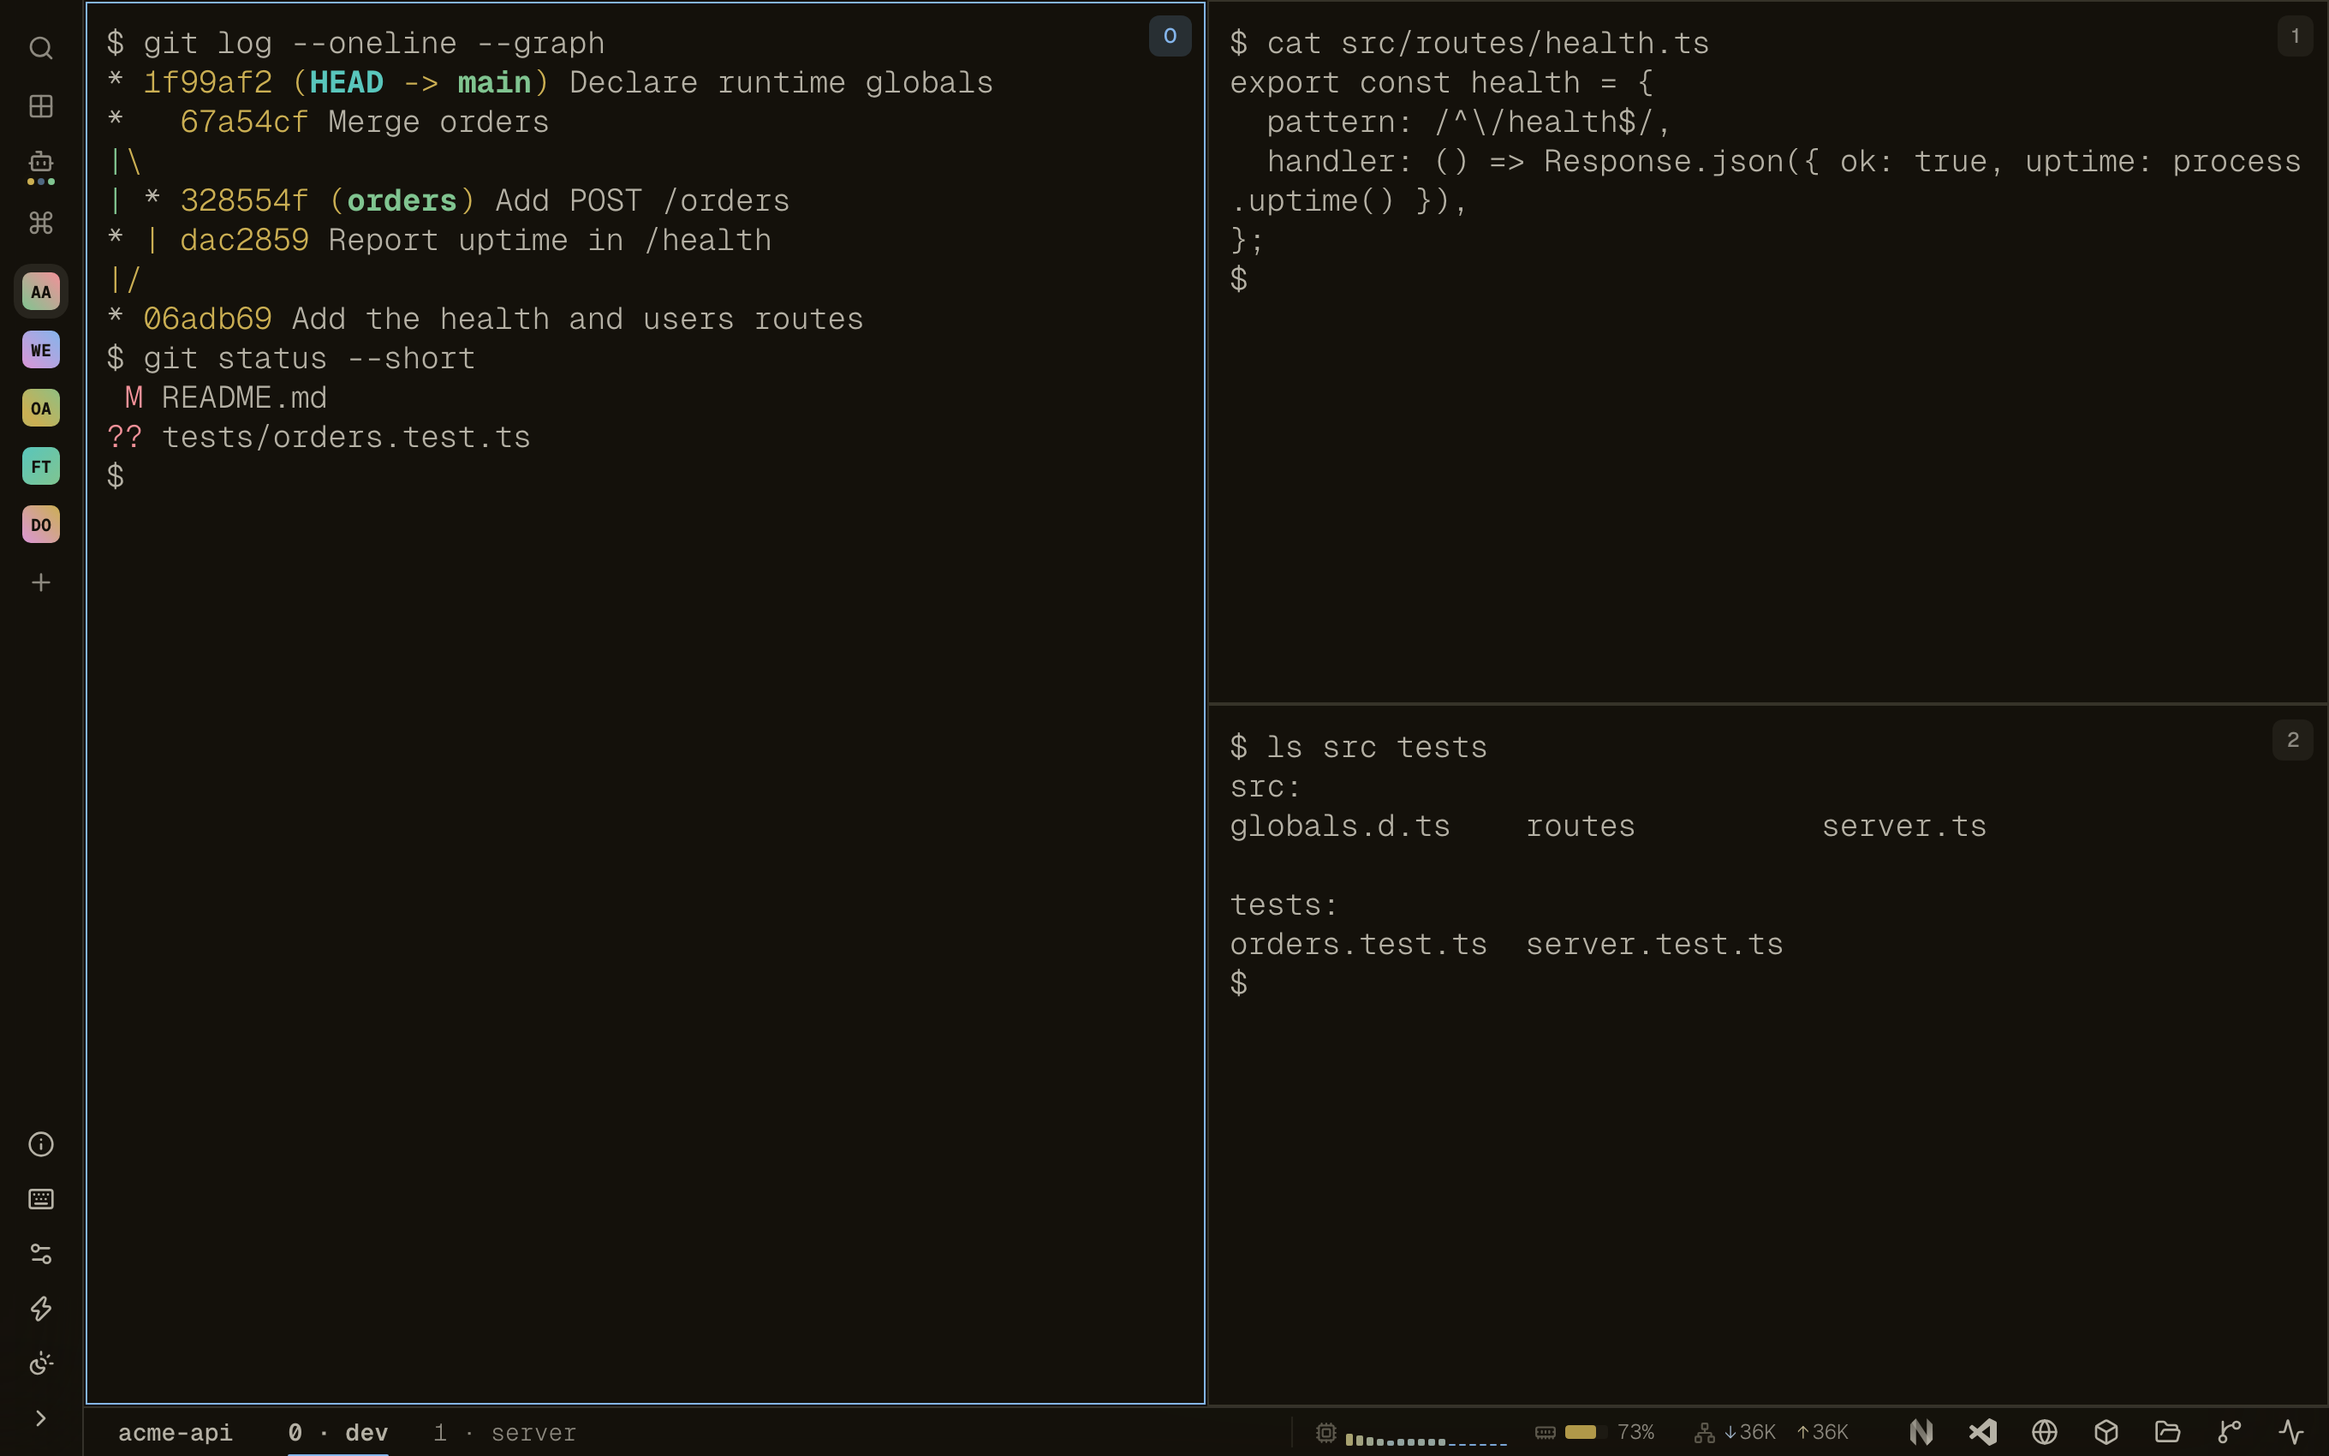
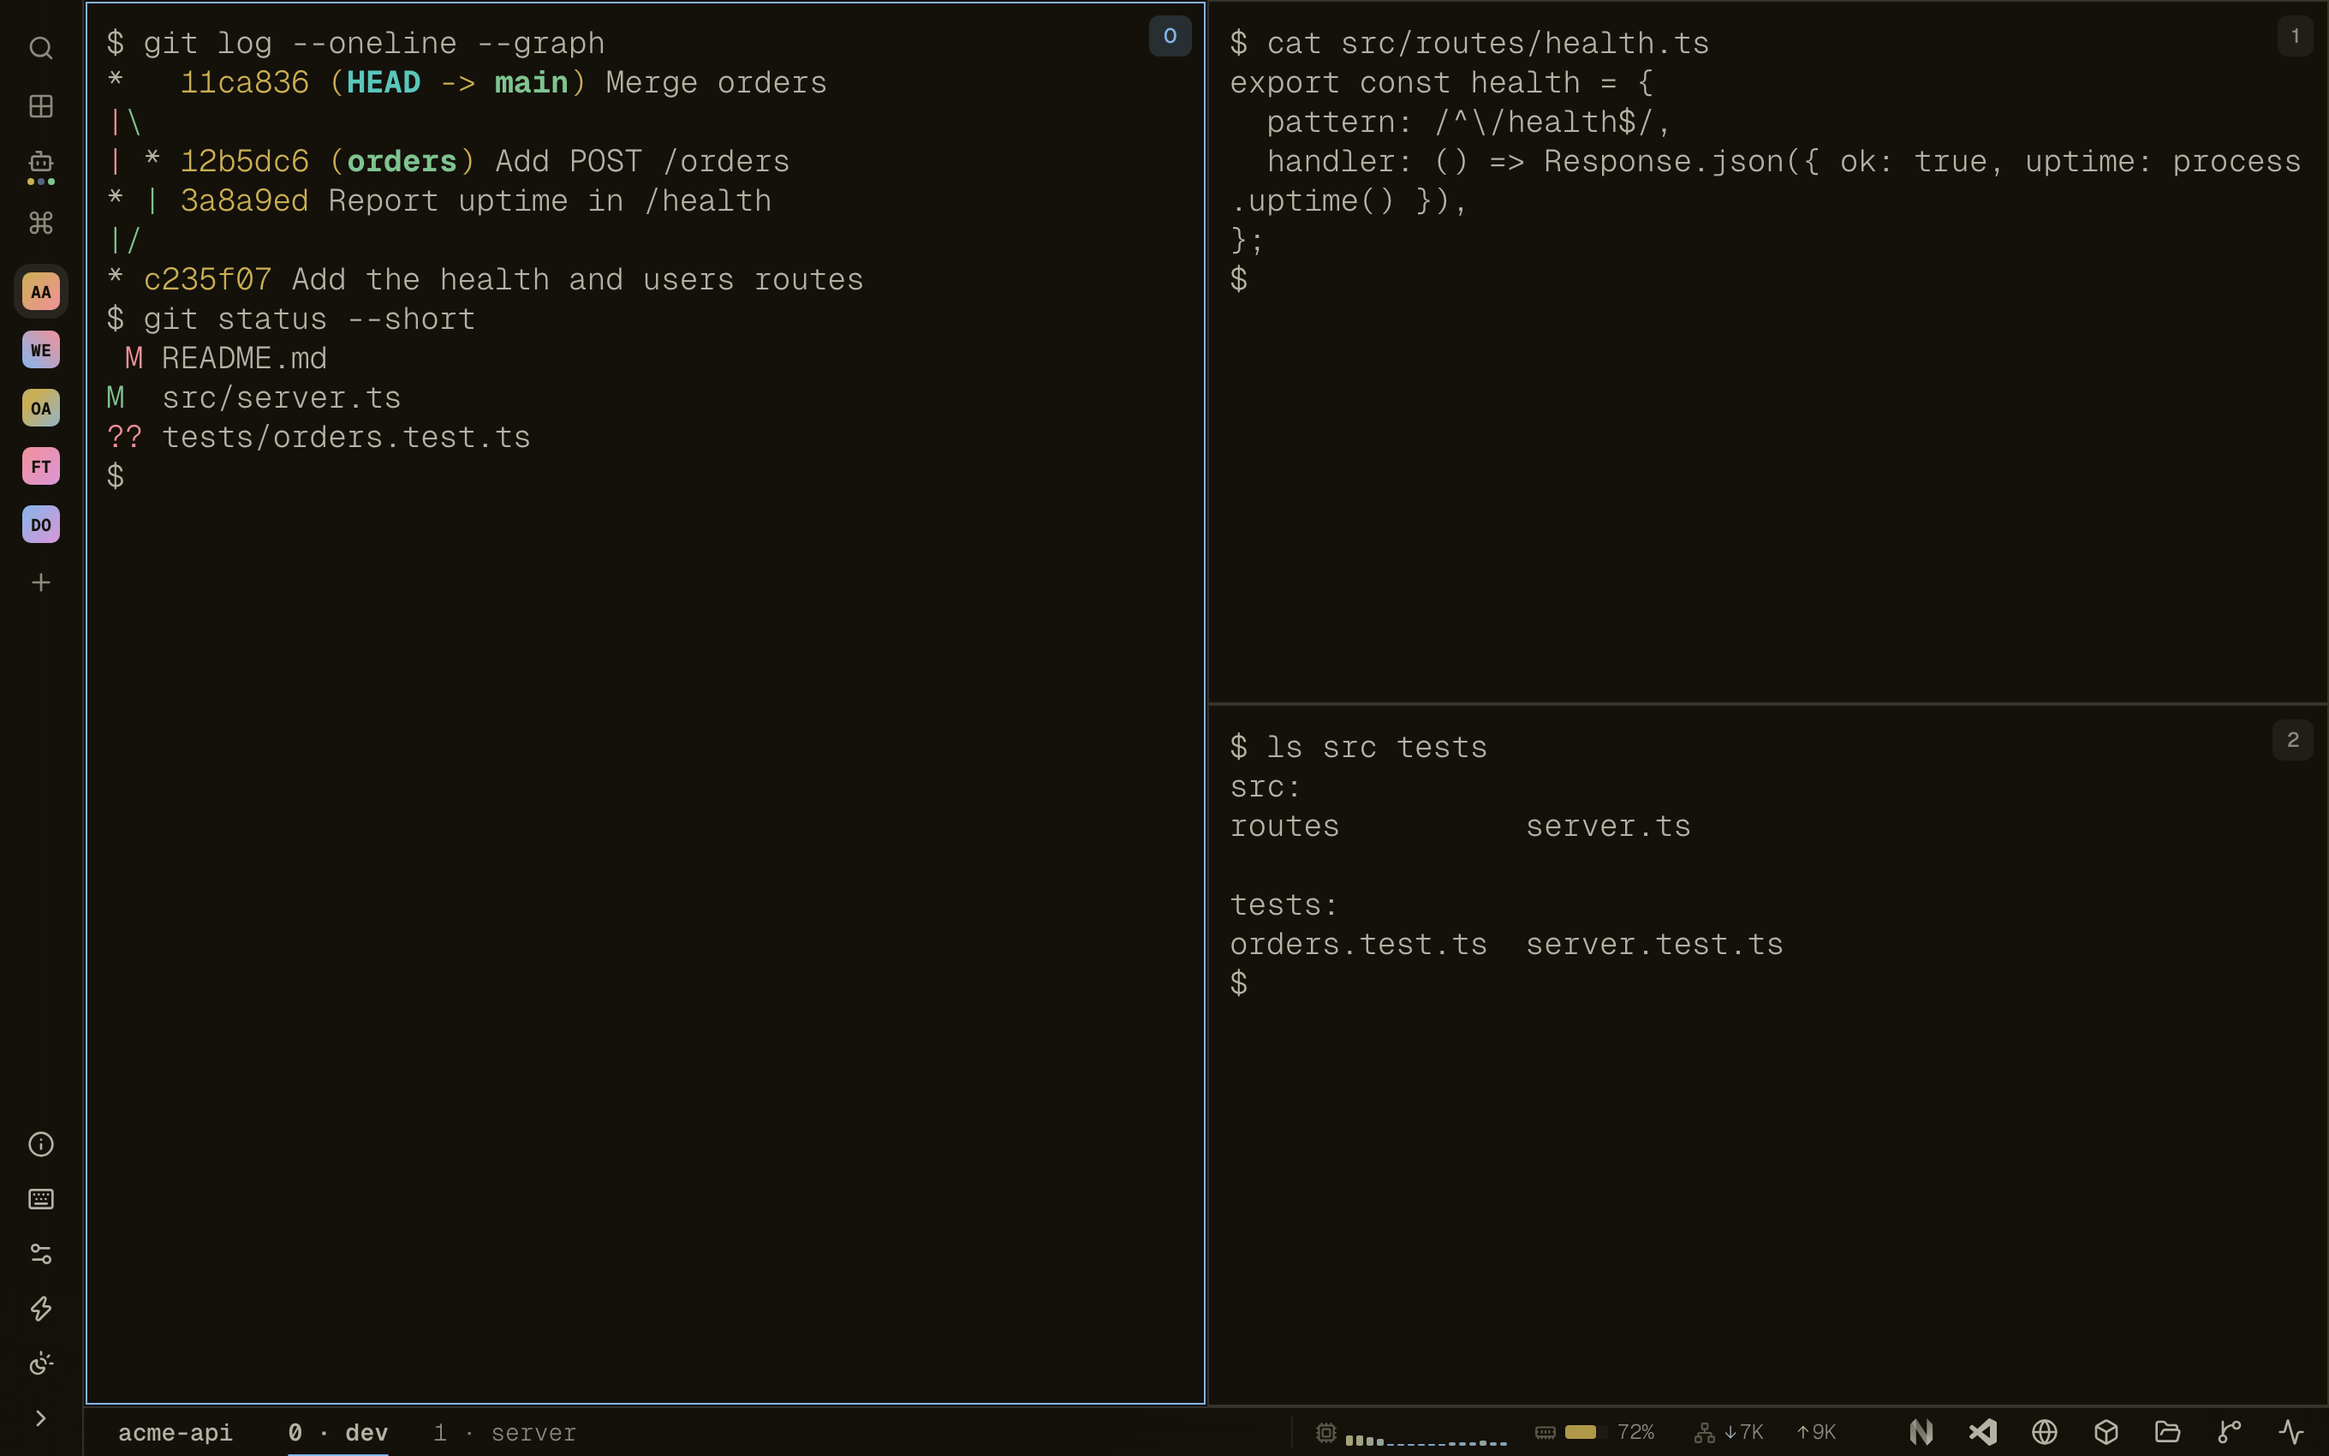
Docs: process viewer screenshot, Rust LSP in the Neovim screenshots

diff --git a/frontend/docs-screenshots.ts b/frontend/docs-screenshots.ts
@@ -8,7 +8,7 @@ import assert from 'node:assert/strict';
 import { chromium, type Page } from 'playwright';
 import { execFileSync } from 'node:child_process';
 import { mkdirSync, rmSync, writeFileSync } from 'node:fs';
-import { tmpdir } from 'node:os';
+import { homedir, tmpdir, userInfo } from 'node:os';
 import path from 'node:path';
 import { waitForAsync } from './browser-test-utils';
 
@@ -47,7 +47,7 @@ write(
 write('.gitignore', 'node_modules\n.env\n');
 write(
   'src/server.ts',
-  `import { health } from './routes/health';\nimport { users } from './routes/users';\n\nconst routes = [health, users];\n\nexport function handle(request: Request): Response | Promise<Response> {\n  const { pathname } = new URL(request.url);\n  for (const route of routes) {\n    const match = route.pattern.exec(pathname);\n    if (match) return route.handler(request, match);\n  }\n  return new Response('Not found', { status: 404 });\n}\n\nBun.serve({ port: 3000, fetch: handle });\n`,
+  `import { health } from './routes/health';\nimport { users } from './routes/users';\n\nconst routes = [health, users];\n\nexport function handle(request: Request): Response {\n  const { pathname } = new URL(request.url);\n  for (const route of routes) {\n    const match = route.pattern.exec(pathname);\n    if (match) return route.handler(request, match);\n  }\n  return new Response('Not found', { status: 404 });\n}\n\nBun.serve({ port: 3000, fetch: handle });\n`,
 );
 write(
   'src/routes/health.ts',
@@ -80,7 +80,7 @@ git('merge', '--no-ff', '-m', 'Merge orders', 'orders');
 // Work in progress: one staged, one unstaged, one untracked.
 write(
   'src/server.ts',
-  `import { health } from './routes/health';\nimport { orders } from './routes/orders';\nimport { users } from './routes/users';\n\nconst routes = [health, users, orders];\n\nexport function handle(request: Request): Response | Promise<Response> {\n  const { pathname } = new URL(request.url);\n  for (const route of routes) {\n    const match = route.pattern.exec(pathname);\n    if (match) return route.handler(request, match);\n  }\n  return Response.json({ error: 'not found' }, { status: 404 });\n}\n\nBun.serve({ port: Number(process.env.PORT ?? 3000), fetch: handle });\n`,
+  `import { health } from './routes/health';\nimport { orders } from './routes/orders';\nimport { users } from './routes/users';\n\nconst routes = [health, users, orders];\n\nexport function handle(request: Request): Response {\n  const { pathname } = new URL(request.url);\n  for (const route of routes) {\n    const match = route.pattern.exec(pathname);\n    if (match) return route.handler(request, match);\n  }\n  return Response.json({ error: 'not found' }, { status: 404 });\n}\n\nBun.serve({ port: Number(process.env.PORT ?? 3000), fetch: handle });\n`,
 );
 git('add', 'src/server.ts');
 write(
@@ -88,37 +88,98 @@ write(
   '# acme-api\n\nThe Acme HTTP API.\n\n## Develop\n\n```sh\nbun install\nbun dev\n```\n\nSet `PORT` to listen elsewhere.\n\n## Routes\n\n- `GET /health`\n- `GET /users/:id`\n- `POST /orders`\n',
 );
 write('tests/orders.test.ts', `import { expect, test } from 'bun:test';\n\ntest.todo('creates an order');\n`);
-// Types for the runtime globals, so the language server reports no errors.
-write(
-  'src/globals.d.ts',
-  'declare const Bun: { serve(options: { port: number; fetch: (request: Request) => Response | Promise<Response> }): void };\ndeclare const process: { env: Record<string, string | undefined>; uptime(): number };\n',
-);
-write(
-  'tsconfig.json',
-  '{\n  "compilerOptions": { "target": "esnext", "module": "esnext", "moduleResolution": "bundler" },\n  "include": ["src"]\n}\n',
-);
-git('add', 'src/globals.d.ts', 'tsconfig.json');
-git('commit', '-m', 'Declare runtime globals');
+// A small Rust server: the program the server window runs (a listening port
+// for the process viewer) and the file the Neovim shots edit. rust-analyzer
+// needs the standard library's sources, which a toolchain without `rust-src`
+// lacks: point RUST_SRC_PATH at them.
+assert(process.env.RUST_SRC_PATH, 'RUST_SRC_PATH is required (the Rust standard library sources)');
+const router = path.join(home, 'router');
+mkdirSync(path.join(router, 'src'), { recursive: true });
+writeFileSync(path.join(router, 'Cargo.toml'), '[package]\nname = "router"\nversion = "0.1.0"\nedition = "2024"\n');
+writeFileSync(
+  path.join(router, 'src', 'main.rs'),
+  String.raw`use std::collections::HashMap;
+use std::io::{BufRead, BufReader, Write};
+use std::net::{TcpListener, TcpStream};
 
-// A language server for the Neovim shots, outside the demo repo, and a Neovim
-// config that uses it with native completion, as the Neovim page suggests.
-const tools = path.join(home, 'tools');
-mkdirSync(tools);
-writeFileSync(path.join(tools, 'package.json'), '{}\n');
-execFileSync('bun', ['add', 'typescript-language-server', 'typescript@5'], { cwd: tools, stdio: 'ignore' });
+/// A parsed HTTP request.
+struct Request {
+    method: String,
+    path: String,
+    headers: HashMap<String, String>,
+}
+
+impl Request {
+    /// Reads the request line and headers from a connection.
+    fn read(stream: &TcpStream) -> Option<Request> {
+        let mut lines = BufReader::new(stream).lines();
+        let first = lines.next()?.ok()?;
+        let mut parts = first.split_whitespace();
+        let method = parts.next()?.to_string();
+        let path = parts.next()?.to_string();
+        let mut headers = HashMap::new();
+        for line in lines {
+            let line = line.ok()?;
+            let Some((name, value)) = line.split_once(": ") else {
+                break;
+            };
+            headers.insert(name.to_lowercase(), value.to_string());
+        }
+        Some(Request { method, path, headers })
+    }
+
+    /// The value of a header, by lowercase name.
+    fn header(&self, name: &str) -> Option<&str> {
+        self.headers.get(name).map(String::as_str)
+    }
+}
+
+/// The status and body to answer a request with.
+fn respond(request: &Request) -> (u16, String) {
+    match (request.method.as_str(), request.path.as_str()) {
+        ("GET", "/health") => (200, "ok".to_string()),
+        ("GET", "/agent") => {
+            let agent = request.header("user-agent").unwrap_or("unknown");
+            (200, agent.to_string())
+        }
+        _ => (404, "not found".to_string()),
+    }
+}
+
+fn main() -> std::io::Result<()> {
+    let listener = TcpListener::bind("127.0.0.1:8089")?;
+    for stream in listener.incoming() {
+        let mut stream = stream?;
+        let Some(request) = Request::read(&stream) else {
+            continue;
+        };
+        let (status, body) = respond(&request);
+        write!(stream, "HTTP/1.1 {status} OK\r\ncontent-length: {}\r\n\r\n{body}", body.len())?;
+    }
+    Ok(())
+}
+`,
+);
+// Neovim config for the stack: rust-analyzer with native completion, as the
+// Neovim page suggests.
 mkdirSync(path.join(configHome, 'nvim'), { recursive: true });
 writeFileSync(
   path.join(configHome, 'nvim', 'init.lua'),
   `vim.o.number = true
+-- A half-typed line is an error; the shots are about completion.
+vim.diagnostic.enable(false)
+vim.o.statusline = '%<%f %h%w%m%r%=%-14.(%l,%c%V%) %P'
 vim.o.signcolumn = 'no'
 vim.o.autocomplete = true
 vim.o.completeopt = 'menuone,noselect,fuzzy,popup'
-vim.lsp.config('ts', {
-  cmd = { ${JSON.stringify(path.join(tools, 'node_modules', '.bin', 'typescript-language-server'))}, '--stdio' },
-  filetypes = { 'typescript' },
-  root_markers = { 'package.json' },
+vim.lsp.config('rust_analyzer', {
+  cmd = { 'rust-analyzer' },
+  cmd_env = { RUST_SRC_PATH = ${JSON.stringify(process.env.RUST_SRC_PATH)} },
+  filetypes = { 'rust' },
+  root_markers = { 'Cargo.toml' },
+  settings = { ['rust-analyzer'] = { checkOnSave = false } },
 })
-vim.lsp.enable('ts')
+vim.lsp.enable('rust_analyzer')
 vim.api.nvim_create_autocmd('LspAttach', {
   callback = function(ev)
     vim.lsp.completion.enable(true, ev.data.client_id, ev.buf, { autotrigger = true })
@@ -159,7 +220,7 @@ const prompt = (pane: string) => run(pane, "PS1='$ '; clear");
 const dev = btmux('new-session', '-s', 'acme-api', '-n', 'dev', '-c', repo);
 const side = btmux('split-window', '-t', dev, '-h', '-d', '-c', repo);
 const below = btmux('split-window', '-t', side, '-v', '-d', '-c', repo);
-const server = btmux('new-window', '-t', 'acme-api', '-n', 'server', '-d', '-c', repo);
+const server = btmux('new-window', '-t', 'acme-api', '-n', 'server', '-d', '-c', router);
 const web = btmux('new-session', '-s', 'website', '-n', 'site', '-c', site);
 const agents = [
   ['orders-api', 'claude', 'working', 'Add pagination to GET /orders'],
@@ -181,7 +242,7 @@ for (const [pane, command] of [
   [dev, 'git log --oneline --graph'],
   [side, 'cat src/routes/health.ts'],
   [below, 'ls src tests'],
-  [server, 'cat package.json'],
+  [server, 'cargo build -q && ./target/debug/router'],
   [web, 'cat notes.md'],
   [dev, 'git status --short'],
 ]) {
@@ -297,7 +358,32 @@ try {
       () => store('setFileBrowserOpen(false)'),
       1800,
     );
-    // No process viewer: it lists the host's own processes, users, and paths.
+    // The process viewer lists the host's processes, so the shot shows only
+    // the demo session's, with the user's name and home masked.
+    await shot(
+      'process-viewer',
+      async () => {
+        await overlay('process');
+        // Ports arrive with every third sample.
+        await page.waitForTimeout(4500);
+        await page.keyboard.press('Tab');
+        await page.waitForTimeout(600);
+        await page.keyboard.press('l');
+        await page.waitForTimeout(1500);
+        await page.evaluate(
+          ({ user, home }) => {
+            const walker = document.createTreeWalker(document.body, NodeFilter.SHOW_TEXT);
+            for (let node = walker.nextNode(); node; node = walker.nextNode())
+              if (node.nodeValue!.includes(user))
+                node.nodeValue = node.nodeValue!.replaceAll(home, '/home/ada').replaceAll(user, 'ada');
+            for (const element of document.querySelectorAll('[title]')) element.setAttribute('title', '');
+          },
+          { user: userInfo().username, home: homedir() },
+        );
+      },
+      escape,
+      300,
+    );
     await shot(
       'agent-view',
       () => store('setAgentGridOpen(true)'),
@@ -358,19 +444,35 @@ try {
         await page.keyboard.press('Escape');
         await page.waitForTimeout(600);
       };
-      await command('e! src/server.ts');
-      // The language server starts and loads the project.
-      await page.waitForTimeout(scheme === 'dark' ? 12_000 : 3000);
-      // LSP completion of a route's members, inside the loop of handle().
-      await page.keyboard.type('9Goroute.');
-      await page.waitForTimeout(2500);
-      await page.keyboard.press('Control+n');
+      await command(`cd ${router}`);
+      await command('e! src/main.rs');
+      // rust-analyzer loads the crate and the standard library.
+      if (scheme === 'dark') await page.waitForTimeout(20_000);
+      // LSP completion of the request's members in respond(), retried until
+      // the server answers.
+      let completed = false;
+      for (let attempt = 0; attempt < 12 && !completed; attempt++) {
+        await page.waitForTimeout(3000);
+        await command("call search('^fn respond')");
+        // At the top of the window, so the menu opens below the cursor.
+        await page.keyboard.type('ztorequest.');
+        await page.waitForTimeout(2500);
+        await page.keyboard.press('Control+n');
+        await page.waitForTimeout(500);
+        completed = (await page.locator('[aria-current="true"]').count()) > 0;
+        if (!completed) {
+          await escape();
+          await command('e!');
+        }
+      }
+      assert(completed, 'no completion menu from rust-analyzer');
       await save('neovim-completion');
       await escape();
       await command('e!');
-      // LSP hover on handle.
-      await page.keyboard.type('7G2wK');
-      await page.waitForTimeout(1500);
+      // LSP hover on Request::read.
+      await command("call search('read(&stream')");
+      await page.keyboard.type('zzK');
+      await page.waitForTimeout(2000);
       await save('neovim-hover');
       await page.keyboard.type('j');
       await page.waitForTimeout(400);

diff --git a/AGENTS.md b/AGENTS.md
@@ -63,7 +63,9 @@ regenerate rather than edit them: `just docs-config` (All options, from
 `generate-config`), `just docs-cli` (All commands, from `--help`; a new command
 needs a group in `docs/scripts/cli-reference.mjs`), and `just docs-screenshots`
 (`frontend/docs-screenshots.ts`, demo sessions on a browser-test stack; it
-must show nothing of the host, so no process viewer).
+must show nothing of the host, so the process viewer shot is scoped to the
+demo session with the user's name masked; its Neovim shots use rust-analyzer,
+which needs `RUST_SRC_PATH` set to the standard library's sources).
 
 `CHANGELOG.md` at the repo root is the changelog's only source: the docs'
 Changelog page is generated from it when the site loads its config. A change a

diff --git a/docs/src/content/docs/features/process-viewer.md b/docs/src/content/docs/features/process-viewer.md
@@ -9,6 +9,9 @@ process and listening port, and how much CPU, memory, and disk each session,
 window, and pane is using. Use it to find the dev server holding a port, or
 the pane whose build is eating the machine.
 
+![The process viewer scoped to one session: its processes on the left, and per-pane usage with a listening port on the right](../../../assets/screenshots/process-viewer-dark.png)
+![The process viewer scoped to one session: its processes on the left, and per-pane usage with a listening port on the right](../../../assets/screenshots/process-viewer-light.png)
+
 It has two sides, the process or port list and per-pane usage, and `Tab`
 switches between them. Its keys work without the prefix:
 
